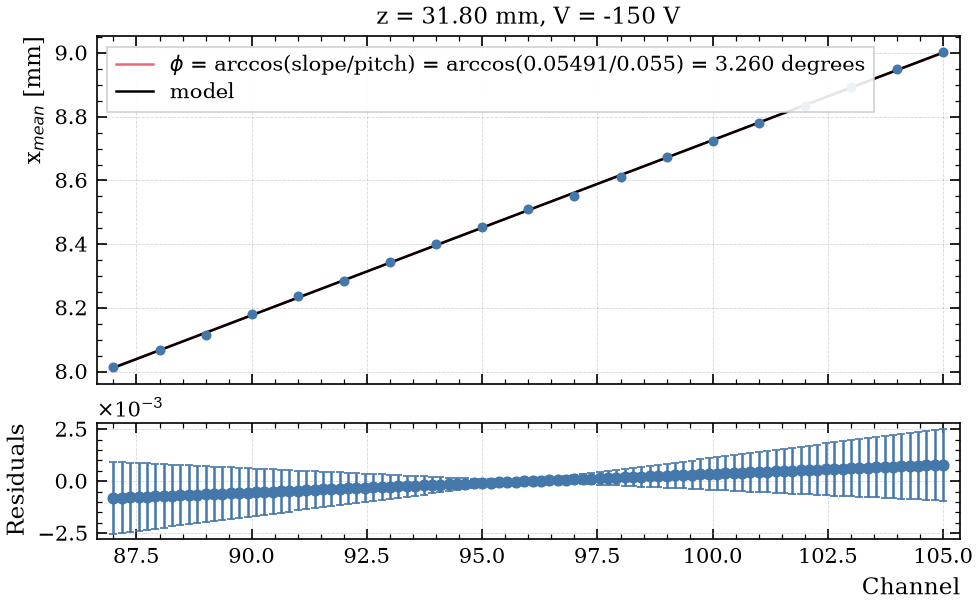
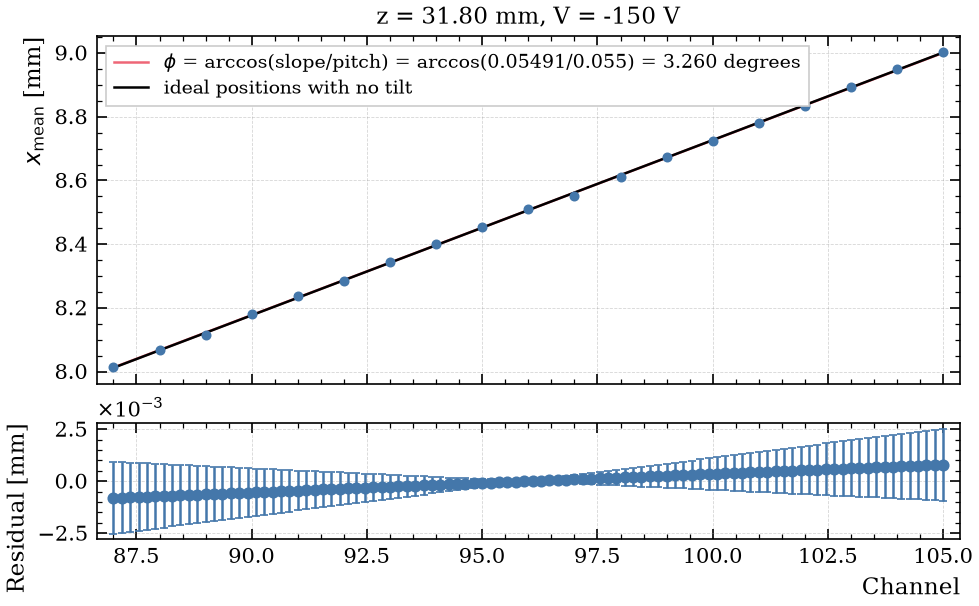
ana

diff --git a/x_scan.py b/x_scan.py
@@ -112,7 +112,7 @@ class XScan(BaseAnalysis):
             model = np.polyval([self.cfg.pitch, model_intercept], xr)
             model_x = {ch: self.cfg.pitch * ch + model_intercept for ch in ch_to_x}
             ax_ch0.plot(xr, model, color='black',
-                       label=f"model")
+                       label=f"ideal positions with no tilt")
             residuals = model - true
             # model is independant on the intercept
             # error is only from slope
